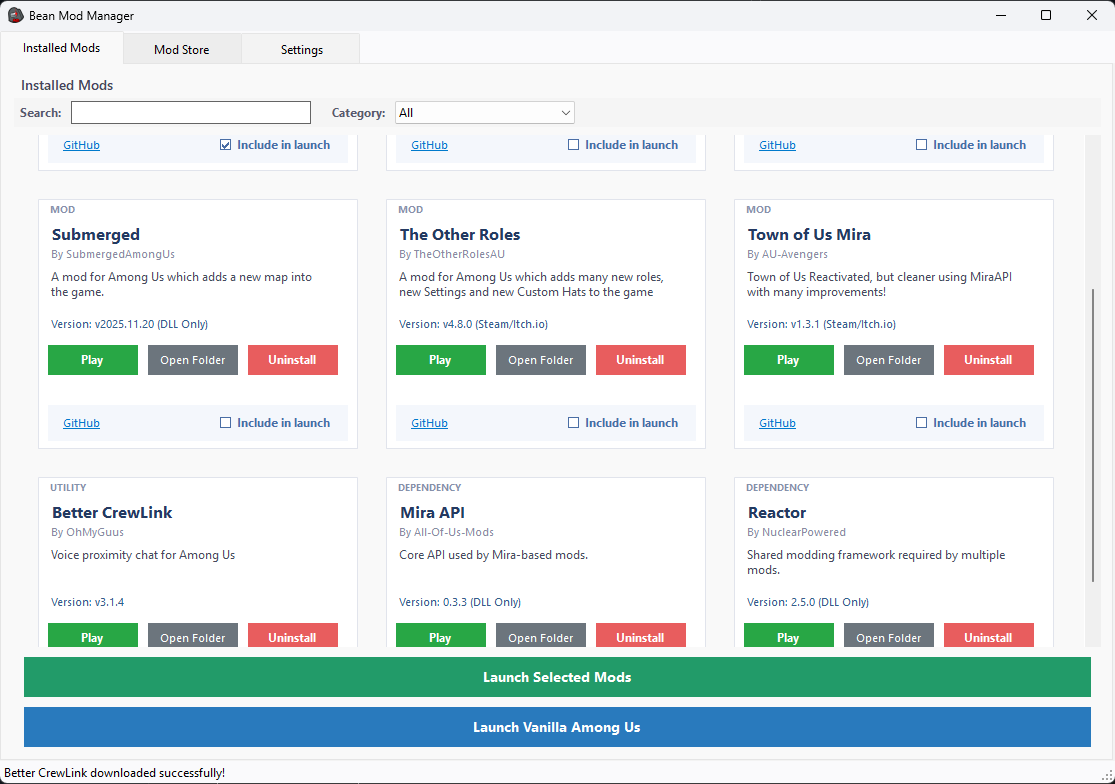
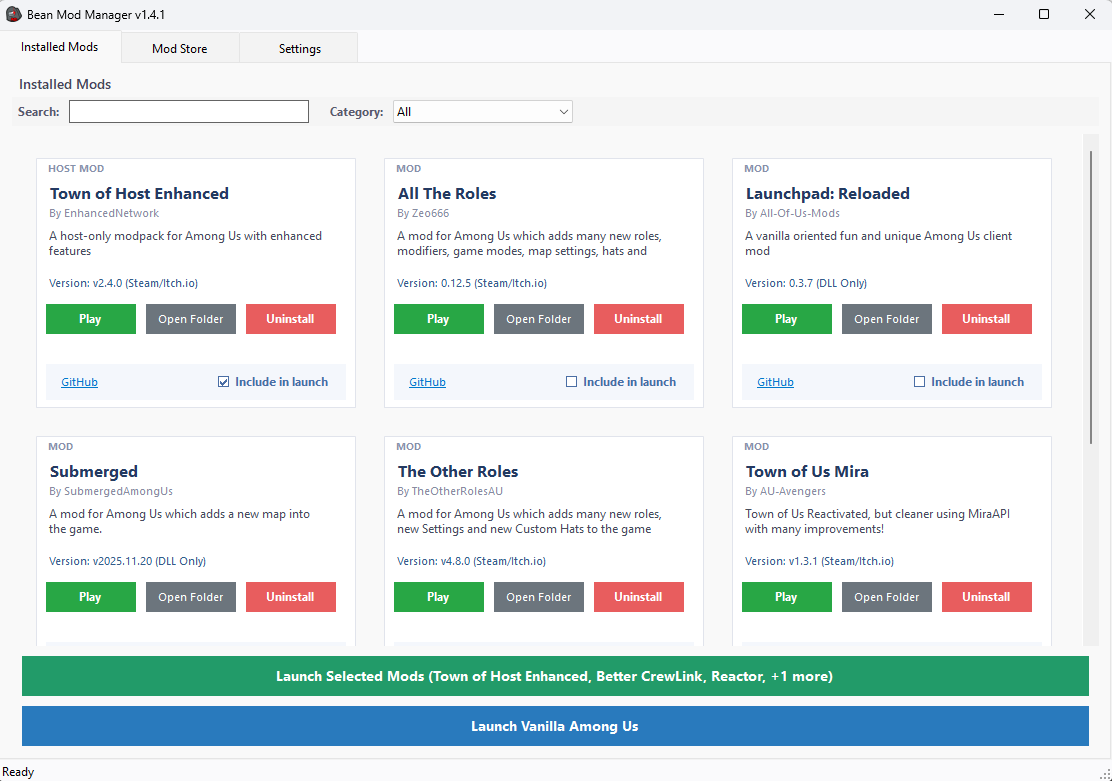
UX changes

diff --git a/Main.cs b/Main.cs
@@ -38,6 +38,11 @@ namespace BeanModManager
         public Main()
         {
             InitializeComponent();
+            
+            // Set window title with version
+            var version = Assembly.GetExecutingAssembly().GetName().Version;
+            this.Text = $"Bean Mod Manager v{version.Major}.{version.Minor}.{version.Build}";
+            
             InitializeUiPerformanceTweaks();
             _config = Config.Load();
             _modStore = new ModStore();
@@ -2359,7 +2364,45 @@ namespace BeanModManager
 
                 if (btnLaunchSelected != null)
                 {
-                    btnLaunchSelected.Enabled = hasGame && _selectedModIds.Any();
+                    bool hasSelection = _selectedModIds.Any();
+                    btnLaunchSelected.Enabled = hasGame && hasSelection;
+
+                    // Update button text to show selected mods
+                    if (hasSelection)
+                    {
+                        var selectedMods = _availableMods?
+                            .Where(m => _selectedModIds.Contains(m.Id, StringComparer.OrdinalIgnoreCase))
+                            .Select(m => m.Name)
+                            .ToList() ?? new List<string>();
+
+                        if (selectedMods.Count == 0)
+                        {
+                            // Fallback to mod IDs if names aren't available
+                            selectedMods = _selectedModIds.ToList();
+                        }
+
+                        string buttonText;
+                        if (selectedMods.Count == 1)
+                        {
+                            buttonText = $"Launch Selected Mods ({selectedMods[0]})";
+                        }
+                        else if (selectedMods.Count <= 3)
+                        {
+                            buttonText = $"Launch Selected Mods ({string.Join(", ", selectedMods)})";
+                        }
+                        else
+                        {
+                            var firstThree = selectedMods.Take(3);
+                            var remaining = selectedMods.Count - 3;
+                            buttonText = $"Launch Selected Mods ({string.Join(", ", firstThree)}, +{remaining} more)";
+                        }
+
+                        btnLaunchSelected.Text = buttonText;
+                    }
+                    else
+                    {
+                        btnLaunchSelected.Text = "Launch Selected Mods";
+                    }
                 }
             });
         }

diff --git a/Properties/AssemblyInfo.cs b/Properties/AssemblyInfo.cs
@@ -29,5 +29,5 @@ using System.Runtime.InteropServices;
 //      Build Number
 //      Revision
 //
-[assembly: AssemblyVersion("1.4.0.0")]
-[assembly: AssemblyFileVersion("1.4.0.0")]
+[assembly: AssemblyVersion("1.4.1.0")]
+[assembly: AssemblyFileVersion("1.4.1.0")]
